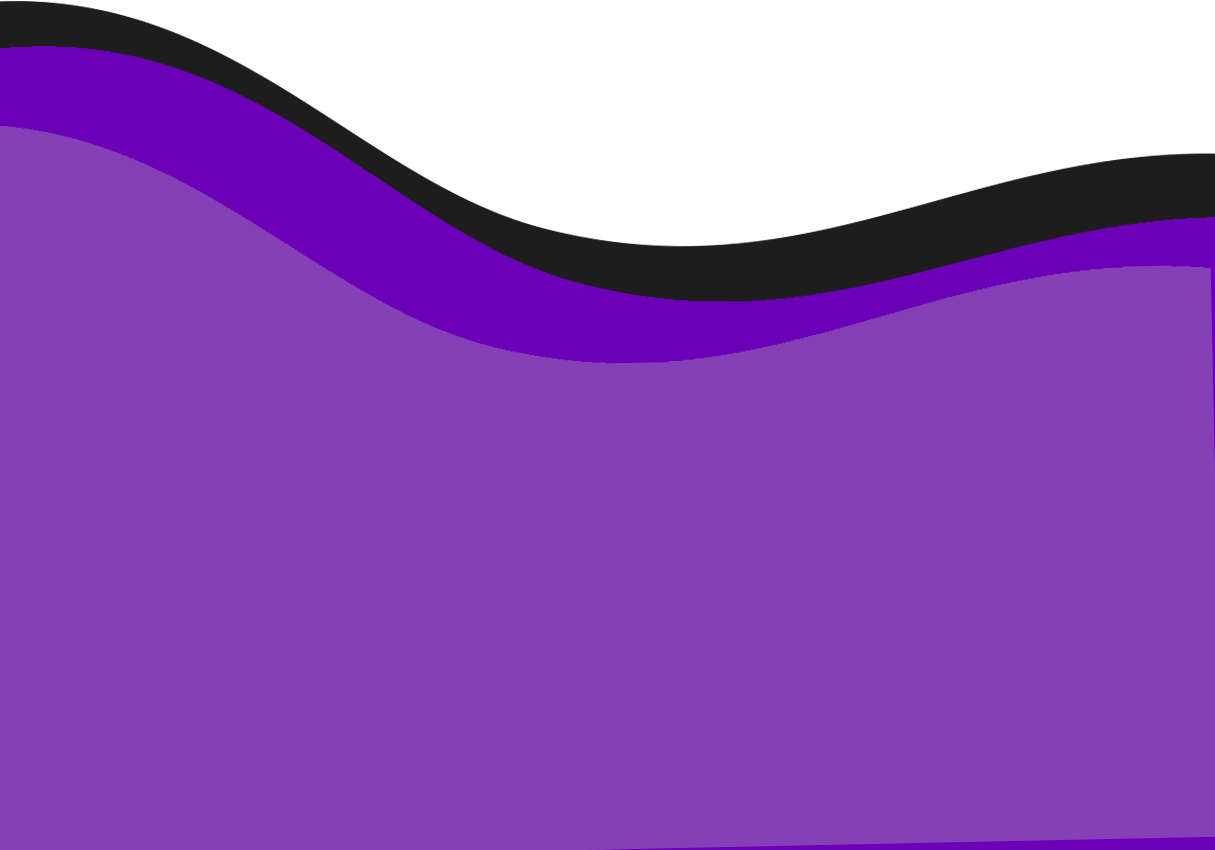
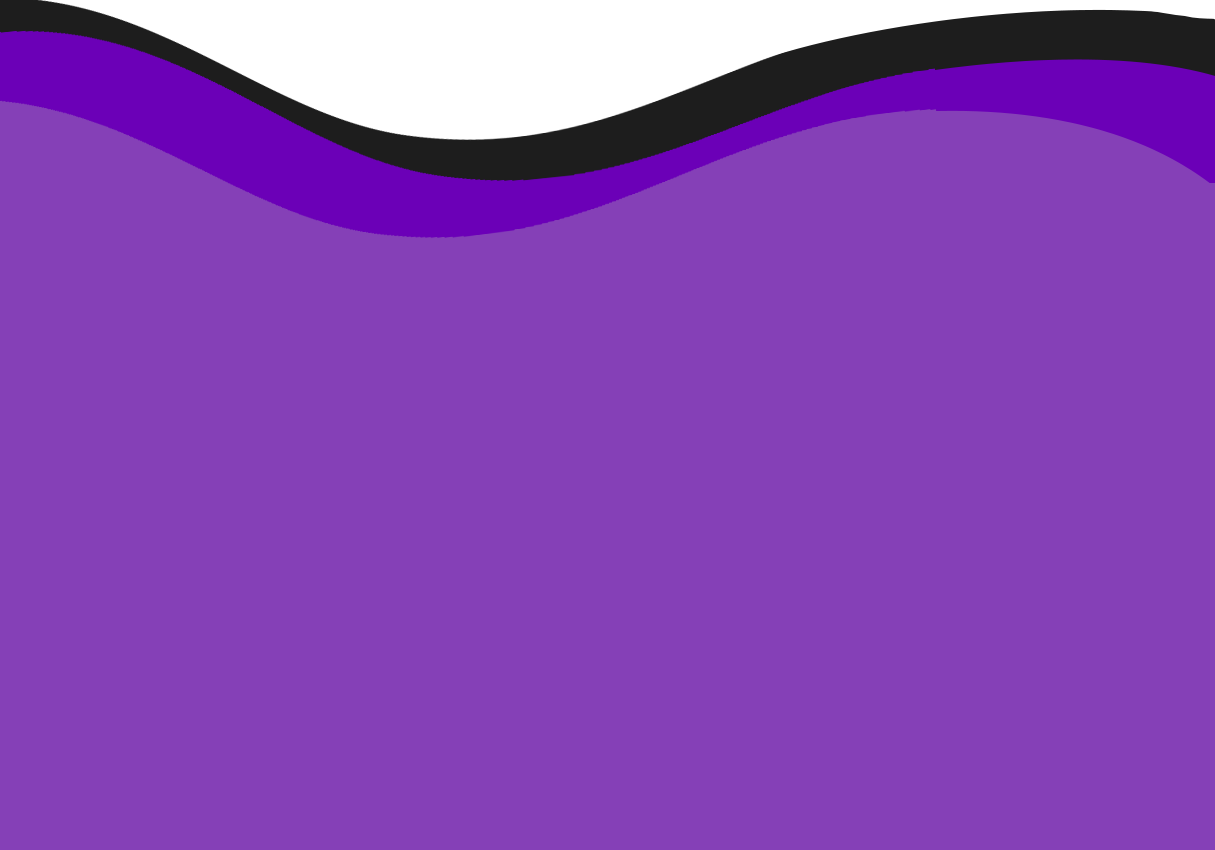
Styling change

diff --git a/wp-content/plugins/alladdin/assets/css/style.css b/wp-content/plugins/alladdin/assets/css/style.css
@@ -2,8 +2,12 @@
   padding-bottom: 0 !important;
 }
 
+.center {
+  text-align: center;
+}
+
 .entry {
-  margin: 0 auto;
+  margin: 30px; auto;
 }
 
 .entry > h1 {
@@ -139,7 +143,7 @@
 }
 
 /**** HOME TOP ****/
-.home-top-content, .home-bottom-contnet {
+.home-top-content, .home-bottom-content {
     position: relative;
     text-align: center;
     margin: 0.625rem;
@@ -418,6 +422,12 @@
   margin-bottom: 10px;
 }
 
+/**** HOME BOTTOM ****/
+.home-bottom-content {
+  bottom: -10vh;
+  align-content: center;
+}
+
 
 
 /***********************
@@ -450,6 +460,7 @@
   border-radius: 25px;
   border: none;
   box-shadow: 0 11px 36px 0 rgba(70,89,138,.25);
+  margin-top: 40px;
 }
 
 .questions-btn:hover {
@@ -469,6 +480,7 @@
   width: 300px;
   align-items: center;
   justify-content: center;
+  margin-top: 40px;
 }
 
 .questions-images {

diff --git a/wp-content/plugins/alladdinforms/includes/paginate_forms.php b/wp-content/plugins/alladdinforms/includes/paginate_forms.php
@@ -1,7 +1,7 @@
 <?php
 function paginate_forms($add_url, $data_url, $g_id, $questionaire_url) {
     global $wpdb;
-    $result = "<br><br>";
+    $result = "";
     $query = "";
 
     if ($g_id == "") {
@@ -22,6 +22,12 @@ function paginate_forms($add_url, $data_url, $g_id, $questionaire_url) {
     $offset = ( $page * $items_per_page ) - $items_per_page;
     $conn = $wpdb->get_results( $query . " ORDER BY Date LIMIT ${offset}, ${items_per_page}" );
 
+    $filledInForms = [];
+    $search = $wpdb->get_results( "SELECT Form_ID FROM wp_filled_forms_list WHERE User_ID = ".get_current_user_id() );
+    foreach ($search as $s) {
+      array_push($filledInForms, $s->Form_ID);
+    }
+
     if (current_user_can('administrator')) {
   		$result .= popup($add_url)."<table><tr><th>#</th><th>Naam</th><th>Groep</th><th>Link</th><th>Acties</th></tr>";
   	} elseif (current_user_can('subscriber')) {
@@ -33,14 +39,7 @@ function paginate_forms($add_url, $data_url, $g_id, $questionaire_url) {
     if (!empty($conn[0]->ID)) {
       foreach ($conn as $c) {
         if (current_user_can('subscriber')) {
-          $filled = [];
-          $search = $wpdb->get_results( "SELECT Form_ID FROM wp_filled_forms_list WHERE User_ID = ".get_current_user_id() );
-          foreach ($search as $s) {
-            $i = 0;
-            $filled[0] = $s->Form_ID;
-            $i++;
-          }
-          if (!in_array($c->ID, $filled)) {
+          if (!in_array($c->ID, $filledInForms)) {
             $result .= "<tr><td>".$c->name."</td><td>".get_group_name($c->group_id)."</td><td><a href='/".$questionaire_url."?q=".$c->link."' target='_blank' >Vul formulier in</a></td></tr>";
           }
         } else {

diff --git a/wp-content/plugins/alladdin/includes/blocks/questions/questions.php b/wp-content/plugins/alladdin/includes/blocks/questions/questions.php
@@ -45,10 +45,10 @@ $questionaires_url = get_field('questionaires_url') ?: 'questionaires';
       // Check if a user answered 5 questions
       if (get_user_questions_today() >= 4) {
         ?>
-        <h3>Je hebt 5 vragen beantwoord, kom morgen terug!</h3>
+        <h3 class="center">Je hebt 5 vragen beantwoord, kom morgen terug!</h3>
         <br>
         <div class="questions-btns">
-          <h3>Totale punten: <?php echo get_user_points() ?></h3>
+          <!-- <h3>Totale punten: <?php echo get_user_points() ?></h3> -->
           <button type="button" class="questions-btn" onclick="location.href='/<?php echo $questionaires_url ?>'">Vragenlijsten voor extra punten</button>
           <?php if (!current_user_can('subscriber')): ?>
             <button type="button" class="questions-btn" onclick="location.href='/<?php echo $edit_url ?>'"> &#9998; Campagnes aanpassen</button>
@@ -91,7 +91,7 @@ $questionaires_url = get_field('questionaires_url') ?: 'questionaires';
           </form>
         </div>
         <div class="questions-btns">
-          <h3>Totale punten: <?php echo get_user_points() ?></h3>
+          <!-- <h3>Totale punten: <?php echo get_user_points() ?></h3> -->
           <button type="button" class="questions-btn" onclick="location.href='/<?php echo $questionaires_url ?>'">Vragenlijsten voor extra punten</button>
           <?php if (!current_user_can('subscriber')): ?>
             <button type="button" class="questions-btn" onclick="location.href='/<?php echo $edit_url ?>'"> &#9998; Campagnes aanpassen</button>

diff --git a/wp-content/plugins/alladdin/includes/blocks/home/home_bottom.php b/wp-content/plugins/alladdin/includes/blocks/home/home_bottom.php
@@ -49,7 +49,6 @@ $image = get_field('image') ?: '../../../assets/images/starbucksFreeLatte.jpg';
           width: 100vw !important;
           height: 90vh;
           max-width: 100vw !important;
-          margin-left: -11.11%;
           display: flex;
           justify-content: center;
           align-items: center;
@@ -57,18 +56,22 @@ $image = get_field('image') ?: '../../../assets/images/starbucksFreeLatte.jpg';
           right: 50%;
           margin-left: -50vw !important;
           margin-right: -50vw !important;
+          margin-top: 80px;
+          margin-bottom: -30px;
       }
       <?php echo "#".esc_attr($id); ?>::before {
-          content: "";
-          position: absolute;
-          width: 100%;
-          max-width: 100vw;
-          margin: 0 !important;
-          height: 100%;
-          background: url("<?php echo $image ?>");
-          background-repeat: no-repeat;
-          background-size: cover;
-          background-position: top center;
+        content: "";
+        position: absolute;
+        bottom: 0;
+        left: 0;
+        width: 100%;
+        max-width: 100vw;
+        margin: 0 !important;
+        height: 100%;
+        background: url("<?php echo $image ?>");
+        background-repeat: no-repeat;
+        background-size: cover;
+        background-position: top center;
       }
     </style>
 </div>

diff --git a/wp-content/plugins/alladdin/includes/blocks/store/paid.php b/wp-content/plugins/alladdin/includes/blocks/store/paid.php
@@ -33,9 +33,11 @@ $user_points = get_user_points();
   <hr>
 
   <?php if ($user_points < $_POST["price"]) : ?>
-    <h3>Spijtig genoeg kan je niet onder nul gaan.</h3>
+    <h3 class="center">Spijtig genoeg kan je niet onder nul gaan.</h3>
+    <button type="button" class="questions-btn" onclick="location.href='/prizes'">Terug</button>
   <?php else: ?>
-    <h3>Voucher code: <?php echo uniqid(); ?></h3>
-    <h3>Punten afgetrokken van je totaal. Je hebt nog: <?php echo update_user_score_paid($_POST["price"],$user_points); ?> punten</h3>
+    <h3 class="center">Voucher code: <?php echo uniqid(); ?></h3>
+    <h3 class="center">Punten afgetrokken van je totaal. Je hebt nog: <?php echo update_user_score_paid($_POST["price"],$user_points); ?> punten</h3>
+    <button type="button" class="questions-btn" onclick="location.href='/prizes'">Begrepen</button>
   <?php endif; ?>
 </div>

diff --git a/wp-content/plugins/alladdin/includes/campaigns.php b/wp-content/plugins/alladdin/includes/campaigns.php
@@ -44,7 +44,7 @@ function campaigns($atts) {
 
     $total_query = "SELECT COUNT(1) FROM (${query}) AS combined_table";
     $total = $wpdb->get_var( $total_query );
-    $items_per_page = 10;
+    $items_per_page = 5;
     $page = isset( $_GET['cpage'] ) ? abs( (int) $_GET['cpage'] ) : 1;
     $offset = ( $page * $items_per_page ) - $items_per_page;
     $conn = $wpdb->get_results( $query . " LIMIT ${offset}, ${items_per_page}" );

diff --git a/wp-content/plugins/alladdin/includes/blocks/store/store.php b/wp-content/plugins/alladdin/includes/blocks/store/store.php
@@ -41,7 +41,7 @@ $conn = $wpdb->get_results('SELECT * FROM wp_t9smq8bdpj_prize ORDER BY price');
 
 
 <?php if (current_user_can('subscriber') || current_user_can('administrator')) : ?>
-    <h3>Totale punten: <?php echo $user_points ?> </h3>
+    <h3 class="center">Totale punten: <?php echo $user_points ?> </h3>
     <div id='prizes'>
     <?php foreach ($conn as $row) : ?>
       <?php if ($user_points >= $row->price): ?>

diff --git a/wp-content/plugins/alladdinforms/includes/questionaire.php b/wp-content/plugins/alladdinforms/includes/questionaire.php
@@ -8,7 +8,7 @@ function questionaire_show( $atts ) {
     $conn = $wpdb->get_results("SELECT * FROM `wp_question` WHERE form_id=" . $f[0]->ID);
     $q = 1;
 
-    $result = '<div><br><br><h1>'.$f[0]->name.'</h1><br><h3>Intro</h3>';
+    $result = '<div><h1>'.$f[0]->name.'</h1><br><h3>Intro</h3>';
 
     $resultArray = explode("\n", $f[0]->intro);
     foreach ($resultArray as $r) {

diff --git a/wp-content/plugins/alladdinforms/includes/components/list/list_question_multiple.php b/wp-content/plugins/alladdinforms/includes/components/list/list_question_multiple.php
@@ -1,7 +1,7 @@
 <?php
 
 function list_question_multiple($a) {
-  $result = '<br><br>
+  $result = '
               <form action="/'. $a .'" method="post">
               <label for="question"><b>Vraag</b></label>
               <input type="text" placeholder="Vraag" name="question" required><br>';

diff --git a/wp-content/plugins/alladdinforms/includes/components/list/list_question_choice.php b/wp-content/plugins/alladdinforms/includes/components/list/list_question_choice.php
@@ -1,7 +1,7 @@
 <?php
 
 function list_question_choice($a) {
-  $result = '<br><br>
+  $result = '
               <form action="/'. $a .'" method="post">
               <label for="question"><b>Vraag</b></label>
               <input type="text" placeholder="Vraag" name="question" required><br>';

diff --git a/wp-content/plugins/alladdinforms/includes/components/list/list_question_location.php b/wp-content/plugins/alladdinforms/includes/components/list/list_question_location.php
@@ -1,7 +1,7 @@
 <?php
 
 function list_question_location($a) {
-  $result = '<br><br>
+  $result = '
               <form action="/'. $a .'" method="post">
               <label for="question"><b>Vraag</b></label>
               <input type="text" placeholder="Vraag" name="question" required><br>

diff --git a/wp-content/plugins/alladdinforms/includes/components/list/list_question_open.php b/wp-content/plugins/alladdinforms/includes/components/list/list_question_open.php
@@ -1,7 +1,7 @@
 <?php
 
 function list_question_open($a) {
-  $result = '<br><br>
+  $result = '
               <form action="/'. $a .'" method="post">
               <label for="question"><b>Vraag</b></label>
               <input type="text" placeholder="Vraag" name="question" required><br>
